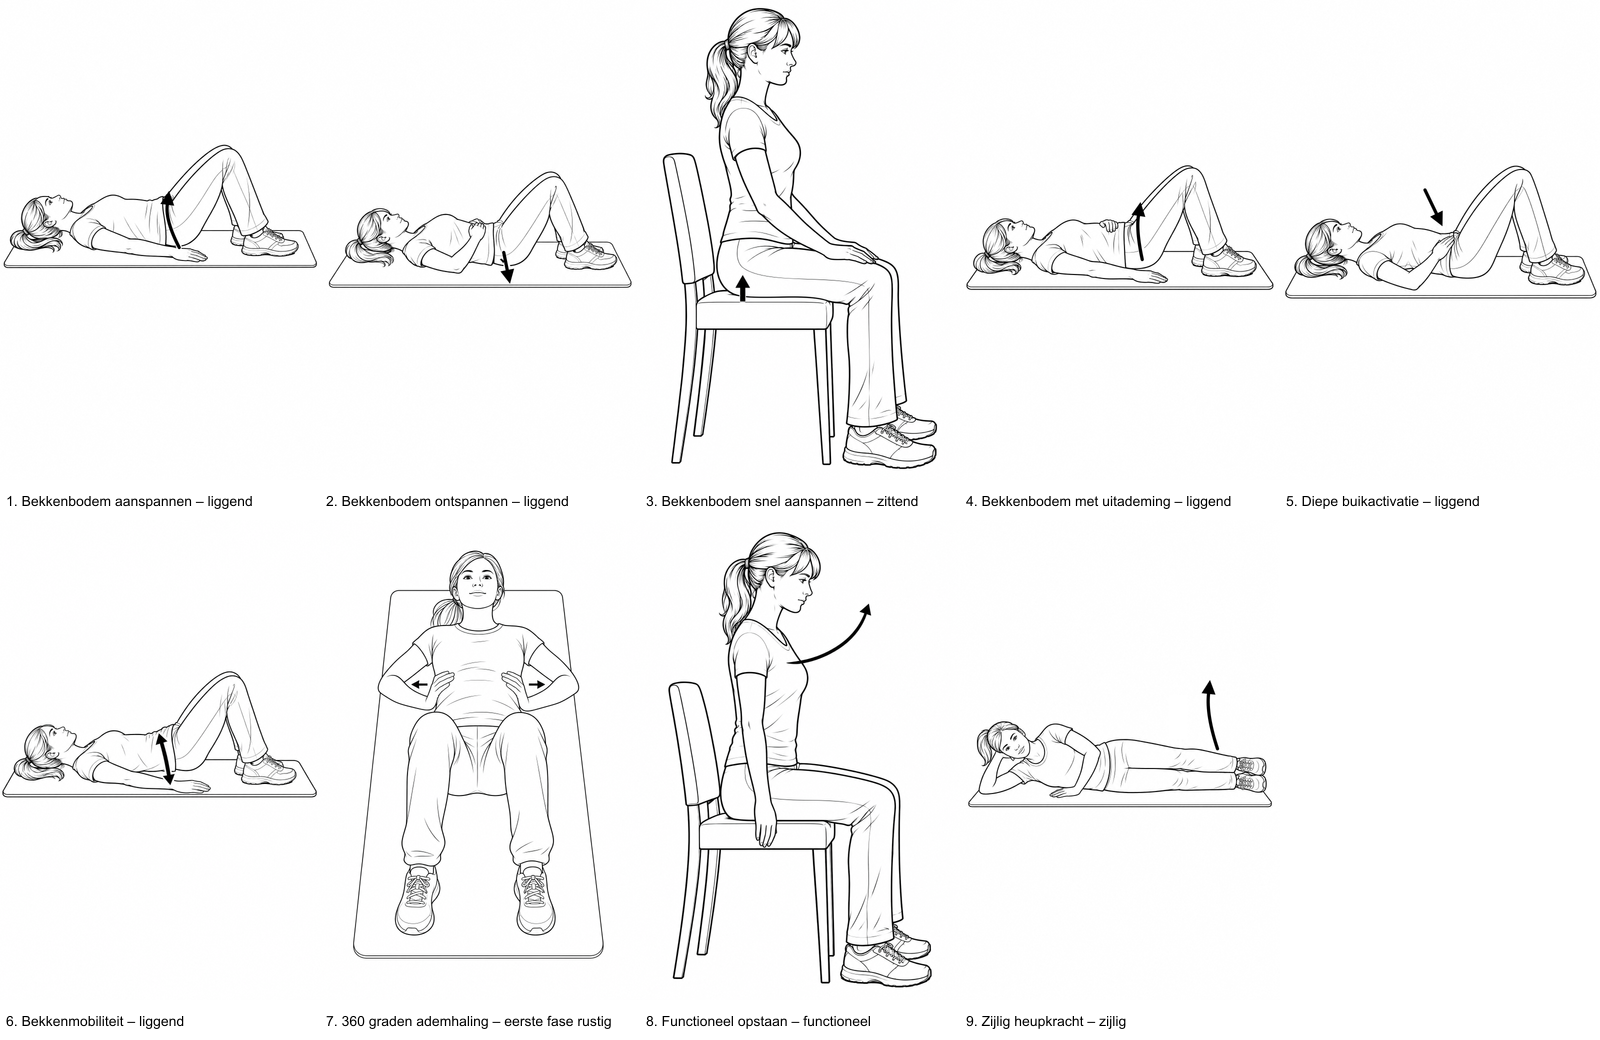
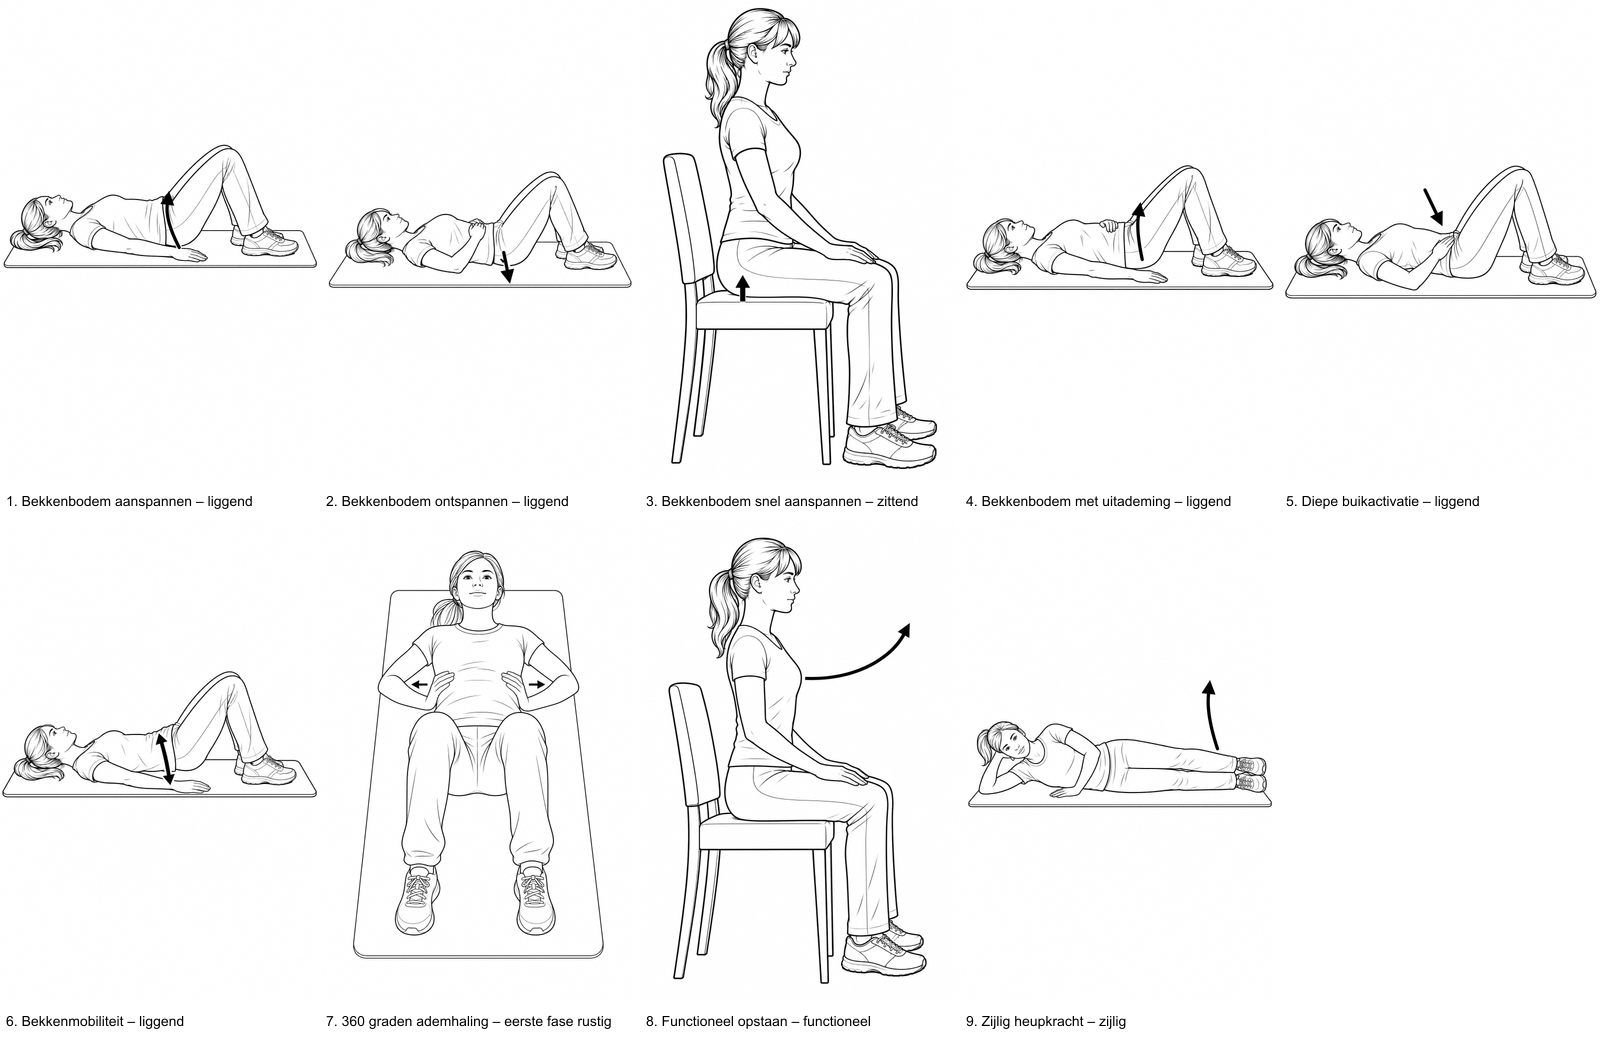
voorbeelden: functioneel opstaan opnieuw met rechtop zittende beginhouding

Changed region(s): [[0.4375, 0.4923, 0.5938, 0.9538]]

diff --git a/output/lege-categorieen-voorbeelden/physitrack-controle.md b/output/lege-categorieen-voorbeelden/physitrack-controle.md
@@ -17,7 +17,7 @@ Datum: 2026-11-06. Per oefening is het eerste beeld én een beeld op ~35% van de
 
 - **Opnieuw gemaakt met Runway (5 × 5 = 25 credits, saldo daarna 175):** 20 en 21 (statische stand, nu zonder pijl), 41 (pijl naar achteren), 58 (marker vóór haar, pijl naar voren), 115 (elleboog omlaag als beginhouding).
 - **Pijl zelf nagetekend, zonder AI (0 credits):** 1, 3, 10, 11, 23, 24, 26, 28, 29, 35, 37, 53, 77, 80, 81, 82, 84, 85, 94, 104, 105, 106, 112, 113, 118. Oude pijl gewist; nieuwe pijl groot en in één stijl (dikke zwarte lijn, gevulde punt) en begint bij het bewegende lichaamsdeel.
-- **Nacontrole coördinator:** bij Zijlig heupkracht – zijlig de pijl zelf nagetekend (0 credits): hij begint nu op het bovenste been. Functioneel opstaan – functioneel (Bekken & postpartum) buigt al voorover en kijkt omlaag; staat klaar om opnieuw te maken met een rechtop zittende beginhouding, wacht op akkoord voor de Runway-run.
+- **Nacontrole coördinator:** bij Zijlig heupkracht – zijlig de pijl zelf nagetekend (0 credits): hij begint nu op het bovenste been. Functioneel opstaan – functioneel (Bekken & postpartum) buigt al voorover en kijkt omlaag; na akkoord van Ahmed opnieuw gemaakt met Runway (1 poging, 5 credits, saldo 170): nu rechtop zittend, blik recht vooruit, pijl vanaf de borst naar voren-omhoog.
 - Alle 30 bevindingen hierboven zijn daarmee opgelost; de tabel hieronder toont de oorspronkelijke controle.
 
 | # | Groep | Oefening | Bron | Houding | Pijl | Opmerking |
